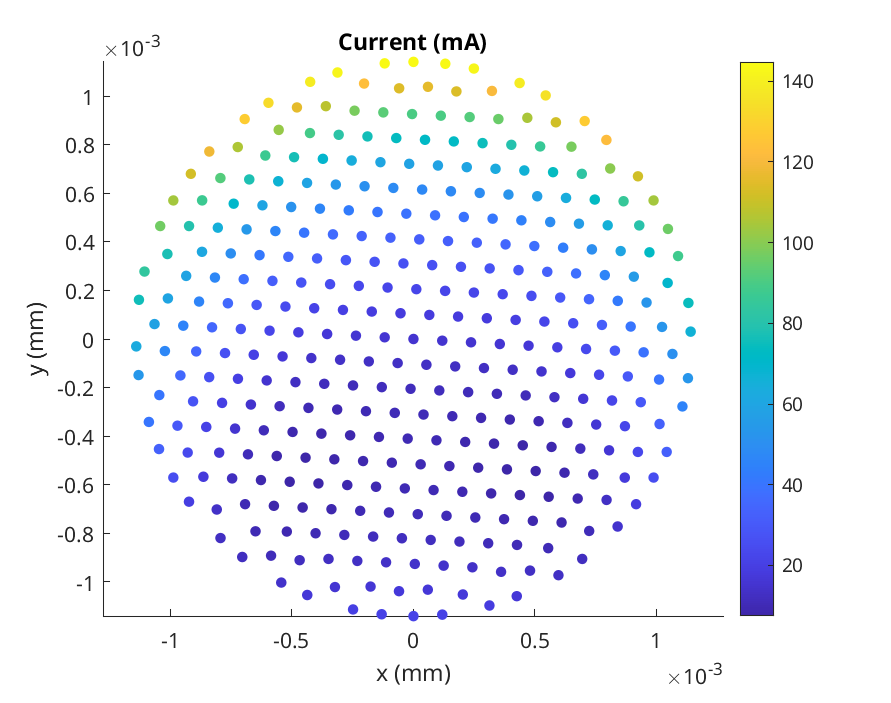
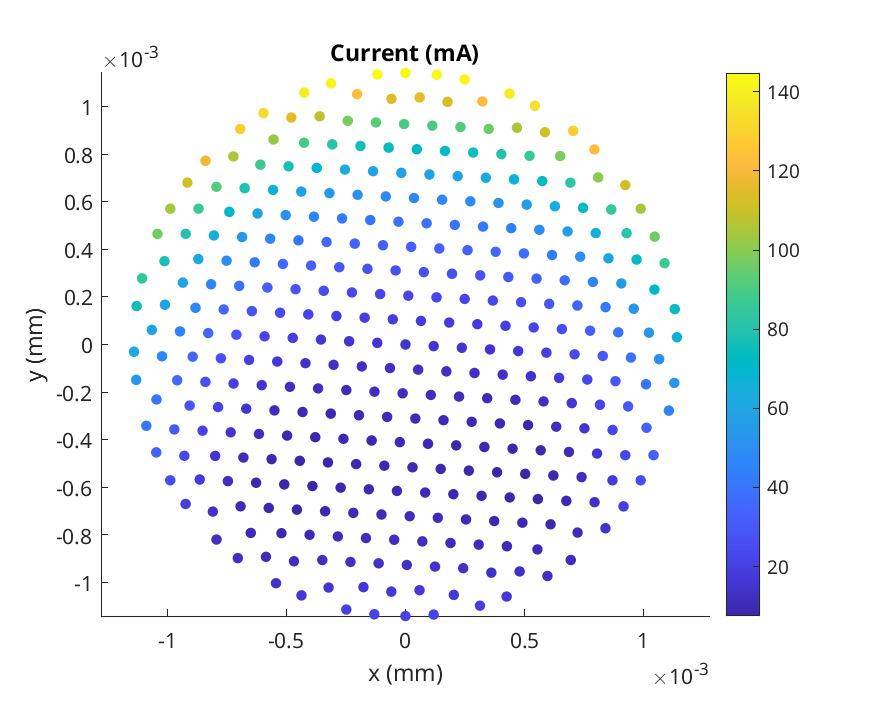
backport from old code

diff --git a/src/numerical/get_losses_sum.m b/src/numerical/get_losses_sum.m
@@ -1,4 +1,4 @@
-function P_vec = get_losses_sum(design, coeff, H_mat, I_vec)
+function [P_avg_vec, I_avg_vec, H_avg_vec] = get_losses_sum(design, coeff, H_mat, I_sharing_vec)
 % Compute the losses of the different strands
 %%%%%%%%%%%%%%%%%%%%%%%%%%%%%%%%%%%%%%%%%%%%%%%%%%%%%%%%%%%%%%%%%%%%%%%%%%%%%%%%%%%%%%%
 % (c) 2016-2020, ETH Zurich, T. Guillod
@@ -13,34 +13,44 @@ H_y = design.H_y;
 perm = design.perm;
 l_wire = design.l_wire;
 
-% initialize the losses
-P_vec = zeros(n, 1);
+% initialize the vectors
+P_avg_vec = zeros(n, 1);
+I_avg_vec = zeros(n, 1);
+H_avg_vec = zeros(n, 1);
 
 % sum the contribution of the different permutations
 for i=1:length(perm)
     idx = perm{i};
-    wgt = l_wire./length(perm);
+    wgt = 1./length(perm);
 
-    I_vec_tmp = I_vec(idx);
-    P_vec_tmp = wgt.*get_losses_strand(coeff, H_mat, H_x, H_y, I_vec_tmp);
-    P_vec = P_vec+P_vec_tmp;
+    [P_vec_tmp, I_vec_tmp, H_vec_tmp] = get_losses_strand(coeff, H_mat, H_x, H_y, I_sharing_vec, idx);
+    
+    P_avg_vec = P_avg_vec+l_wire.*wgt.*P_vec_tmp;
+    I_avg_vec = I_avg_vec+wgt.*I_vec_tmp;
+    H_avg_vec = H_avg_vec+wgt.*H_vec_tmp;
 end
 
 end
 
 
-function P_vec = get_losses_strand(coeff, H_mat, H_x, H_y, I_vec)
+function [P_vec, I_vec, H_vec] = get_losses_strand(coeff, H_mat, H_x, H_y, I_sharing_vec, idx)
 % Compute the skin and proximity losses for a given excitation
 %%%%%%%%%%%%%%%%%%%%%%%%%%%%%%%%%%%%%%%%%%%%%%%%%%%%%%%%%%%%%%%%%%%%%%%%%%%%%%%%%%%%%%%
+
+% permute the current
+I_vec = I_sharing_vec(idx);
 
 % extract the magnetic field
 H_x_vec = H_mat.x*I_vec+H_x;
 H_y_vec = H_mat.y*I_vec+H_y;
 H_vec = hypot(H_x_vec, H_y_vec);
 
+% extract the current field
+I_vec = abs(I_vec);
+
 % compute the losses
-P_skin = coeff.R_dc.*coeff.FR.*(abs(I_vec).^2);
-P_proxy = coeff.R_dc.*coeff.GR.*(abs(H_vec).^2);
+P_skin = coeff.R_dc.*coeff.FR.*I_vec.^2;
+P_proxy = coeff.R_dc.*coeff.GR.*H_vec.^2;
 P_vec = P_skin+P_proxy;
 
 end

diff --git a/run_twisted.m b/run_twisted.m
@@ -31,6 +31,7 @@ plot_geom(design, 'Geometry');
 
 %% get the analytical solution
 [P_tot, P_skin, P_proxy_int, P_proxy_ext] = run_analytical_litz(design);
+
 fprintf('analytical\n')
 fprintf('    P_tot = %.3f mW\n', 1e3.*P_tot)
 fprintf('    P_skin = %.3f mW\n', 1e3.*P_skin)
@@ -38,12 +39,17 @@ fprintf('    P_proxy_int = %.3f mW\n', 1e3.*P_proxy_int)
 fprintf('    P_proxy_ext = %.3f mW\n', 1e3.*P_proxy_ext)
 
 %% get the numerical solution
-[I_vec, P_vec] = run_numerical(design);
-plot_field(design, 1e3.*I_vec, 'Current (mA)');
-plot_field(design, 1e3.*P_vec, 'Losses (mW)');
+[I_sharing_vec, P_avg_vec, I_avg_vec, H_avg_vec] = run_numerical(design);
+
+plot_field(design, 1e3.*P_avg_vec, 'Losses (mW)');
+plot_field(design, 1e3.*I_avg_vec, 'Current (mA)');
+plot_field(design, 1e-3.*H_avg_vec, 'Field (kA/m)');
+plot_sharing(1e3.*I_sharing_vec, 'Current (mA)');
+
 fprintf('numerical\n')
-fprintf('    P_tot = %.3f mW\n', 1e3.*sum(P_vec))
-fprintf('    P_std = %.3f mW\n', 1e3.*std(P_vec))
-fprintf('    err = %.3f %%\n', 1e2.*abs(sum(P_vec)-P_tot)./P_tot)
+fprintf('    P_tot = %.3f mW\n', 1e3.*sum(P_avg_vec))
+fprintf('    P_std = %.3f mW\n', 1e3.*std(P_avg_vec))
+fprintf('    P_mean = %.3f mW\n', 1e3.*mean(P_avg_vec))
+fprintf('    err = %.3f %%\n', 1e2.*abs(sum(P_avg_vec)-P_tot)./P_tot)
 
 end

diff --git a/run_straight.m b/run_straight.m
@@ -31,18 +31,24 @@ plot_geom(design, 'Geometry');
 
 %% get the analytical solution
 [P_tot, P_skin, P_proxy] = run_analytical_plain(design);
+
 fprintf('analytical\n')
 fprintf('    P_tot = %.3f mW\n', 1e3.*P_tot)
 fprintf('    P_skin = %.3f mW\n', 1e3.*P_skin)
 fprintf('    P_proxy = %.3f mW\n', 1e3.*P_proxy)
 
 %% get the numerical solution
-[I_vec, P_vec] = run_numerical(design);
-plot_field(design, 1e3.*I_vec, 'Current (mA)');
-plot_field(design, 1e3.*P_vec, 'Losses (mW)');
+[I_sharing_vec, P_avg_vec, I_avg_vec, H_avg_vec] = run_numerical(design);
+
+plot_field(design, 1e3.*P_avg_vec, 'Losses (mW)');
+plot_field(design, 1e3.*I_avg_vec, 'Current (mA)');
+plot_field(design, 1e-3.*H_avg_vec, 'Field (kA/m)');
+plot_sharing(1e3.*I_sharing_vec, 'Current (mA)');
+
 fprintf('numerical\n')
-fprintf('    P_tot = %.3f mW\n', 1e3.*sum(P_vec))
-fprintf('    P_std = %.3f mW\n', 1e3.*std(P_vec))
-fprintf('    err = %.3f %%\n', 1e2.*abs(sum(P_vec)-P_tot)./P_tot)
+fprintf('    P_tot = %.3f mW\n', 1e3.*sum(P_avg_vec))
+fprintf('    P_std = %.3f mW\n', 1e3.*std(P_avg_vec))
+fprintf('    P_mean = %.3f mW\n', 1e3.*mean(P_avg_vec))
+fprintf('    err = %.3f %%\n', 1e2.*abs(sum(P_avg_vec)-P_tot)./P_tot)
 
 end

diff --git a/src/numerical/get_current_sharing.m b/src/numerical/get_current_sharing.m
@@ -1,4 +1,4 @@
-function [I_vec, H_x, H_y] = get_current_sharing(design, R_mat, L_mat)
+function I_sharing_vec = get_current_sharing(design, R_mat, L_mat)
 % Solve the current sharing problem between the strands
 %     - the wires are parallel connected and the total current is imposed
 %     - the static inductance and resistance matrices are used
@@ -34,7 +34,7 @@ b = [-V_ext ; I ; zeros(n,1)];
 x = A\b;
 
 % extract the strand currents
-I_vec = x(1:n);
+I_sharing_vec = x(1:n);
 
 end
 
@@ -46,10 +46,12 @@ mat_perm = zeros(n, n);
 
 for i=1:length(perm)
     idx = perm{i};
-    wgt = l_wire./length(perm);
+    wgt = 1./length(perm);
 
-    mat_tmp = wgt.*mat(idx, idx);
-    mat_perm = mat_perm+mat_tmp;
+    rev = zeros(1, length(idx));
+    rev(idx) = 1:length(idx);
+
+    mat_perm = mat_perm+l_wire.*wgt.*mat(rev, rev);
 end
 
 end
@@ -62,10 +64,12 @@ vec_perm = zeros(n, 1);
 
 for i=1:length(perm)
     idx = perm{i};
-    wgt = l_wire./length(perm);
+    wgt = 1./length(perm);
 
-    vec_tmp = wgt.*vec(idx);
-    vec_perm = vec_perm+vec_tmp;
+    rev = zeros(1, length(idx));
+    rev(idx) = 1:length(idx);
+
+    vec_perm = vec_perm+l_wire.*wgt.*vec(rev);
 end
 
 end

diff --git a/run_random.m b/run_random.m
@@ -30,11 +30,16 @@ design.perm = perm; % permutation between the strands defining the twisting
 plot_geom(design, 'Geometry');
 
 %% get the numerical solution
-[I_vec, P_vec] = run_numerical(design);
-plot_field(design, 1e3.*I_vec, 'Current (mA)');
-plot_field(design, 1e3.*P_vec, 'Losses (mW)');
+[I_sharing_vec, P_avg_vec, I_avg_vec, H_avg_vec] = run_numerical(design);
+
+plot_field(design, 1e3.*P_avg_vec, 'Losses (mW)');
+plot_field(design, 1e3.*I_avg_vec, 'Current (mA)');
+plot_field(design, 1e-3.*H_avg_vec, 'Field (kA/m)');
+plot_sharing(1e3.*I_sharing_vec, 'Current (mA)');
+
 fprintf('numerical\n')
-fprintf('    P_tot = %.3f mW\n', 1e3.*sum(P_vec))
-fprintf('    P_std = %.3f mW\n', 1e3.*std(P_vec))
+fprintf('    P_tot = %.3f mW\n', 1e3.*sum(P_avg_vec))
+fprintf('    P_std = %.3f mW\n', 1e3.*std(P_avg_vec))
+fprintf('    P_mean = %.3f mW\n', 1e3.*mean(P_avg_vec))
 
 end

diff --git a/src/run_numerical.m b/src/run_numerical.m
@@ -1,4 +1,4 @@
-function [I_vec, P_vec] = run_numerical(design)
+function [I_sharing_vec, P_avg_vec, I_avg_vec, H_avg_vec] = run_numerical(design)
 % Numerical solution for the losses of a Litz wire with custom twisting
 %%%%%%%%%%%%%%%%%%%%%%%%%%%%%%%%%%%%%%%%%%%%%%%%%%%%%%%%%%%%%%%%%%%%%%%%%%%%%%%%%%%%%%%
 % (c) 2016-2020, ETH Zurich, T. Guillod
@@ -22,10 +22,10 @@ d = design.d_strand;
 coeff = get_bessel_coeff(sigma, d, f);
 
 % solve the current sharing problem
-I_vec = get_current_sharing(design, R_mat, L_mat);
+I_sharing_vec = get_current_sharing(design, R_mat, L_mat);
 
 % evaluate the losses of the strands
-P_vec = get_losses_sum(design, coeff, H_mat, I_vec);
+[P_avg_vec, I_avg_vec, H_avg_vec] = get_losses_sum(design, coeff, H_mat, I_sharing_vec);
 
 end
 

diff --git a/src/plot_sharing.m b/src/plot_sharing.m
@@ -1,0 +1,15 @@
+function plot_sharing(v_vec, name)
+% Plot the histogram of the absolute value of a variable
+%%%%%%%%%%%%%%%%%%%%%%%%%%%%%%%%%%%%%%%%%%%%%%%%%%%%%%%%%%%%%%%%%%%%%%%%%%%%%%%%%%%%%%%
+% (c) 2016-2020, ETH Zurich, T. Guillod
+% (c) 2025-2025, Dartmouth College, T. Guillod
+% Published under the 2-Clause BSD License
+%%%%%%%%%%%%%%%%%%%%%%%%%%%%%%%%%%%%%%%%%%%%%%%%%%%%%%%%%%%%%%%%%%%%%%%%%%%%%%%%%%%%%%%
+
+figure()
+histogram(abs(v_vec))
+xlabel('Variable')
+ylabel('Density')
+title(name)
+
+end

diff --git a/src/run_analytical_litz.m b/src/run_analytical_litz.m
@@ -41,12 +41,12 @@ H_y = design.H_y;
 d_cond = design.d_cond;
 
 % skin effect losses
-P_skin = (n.*R_dc.*FR).*(I./n).^2;
+P_skin = (n.*R_dc.*FR).*(abs(I)./n).^2;
 
 % internal proximity losses
 area = pi.*(d_cond./2.0).^2;
 H_int_square = 1./(8.*pi);
-P_proxy_int = (H_int_square./area).*(n.*R_dc.*GR).*I.^2;
+P_proxy_int = (H_int_square./area).*(n.*R_dc.*GR).*abs(I).^2;
 
 % external proximity losses
 P_proxy_ext = n.*R_dc.*GR.*hypot(H_x, H_y).^2;

diff --git a/src/run_analytical_plain.m b/src/run_analytical_plain.m
@@ -42,7 +42,7 @@ H_x = design.H_x;
 H_y = design.H_y;
 
 % compute the losses
-P_skin = R_dc.*FR.*I.^2;
+P_skin = R_dc.*FR.*abs(I).^2;
 P_proxy = R_dc.*GR.*hypot(H_x, H_y).^2;
 
 % sum the spectral components

diff --git a/README.md b/README.md
@@ -39,7 +39,7 @@ The following examples are included:
 <p float="middle">
     <img src="readme_img/current.png" width="250">
     <img src="readme_img/field.png" width="250">
-    <img src="readme_img/power.png" width="250">
+    <img src="readme_img/sharing.png" width="250">
 </p>
 
 ## Compatibility
